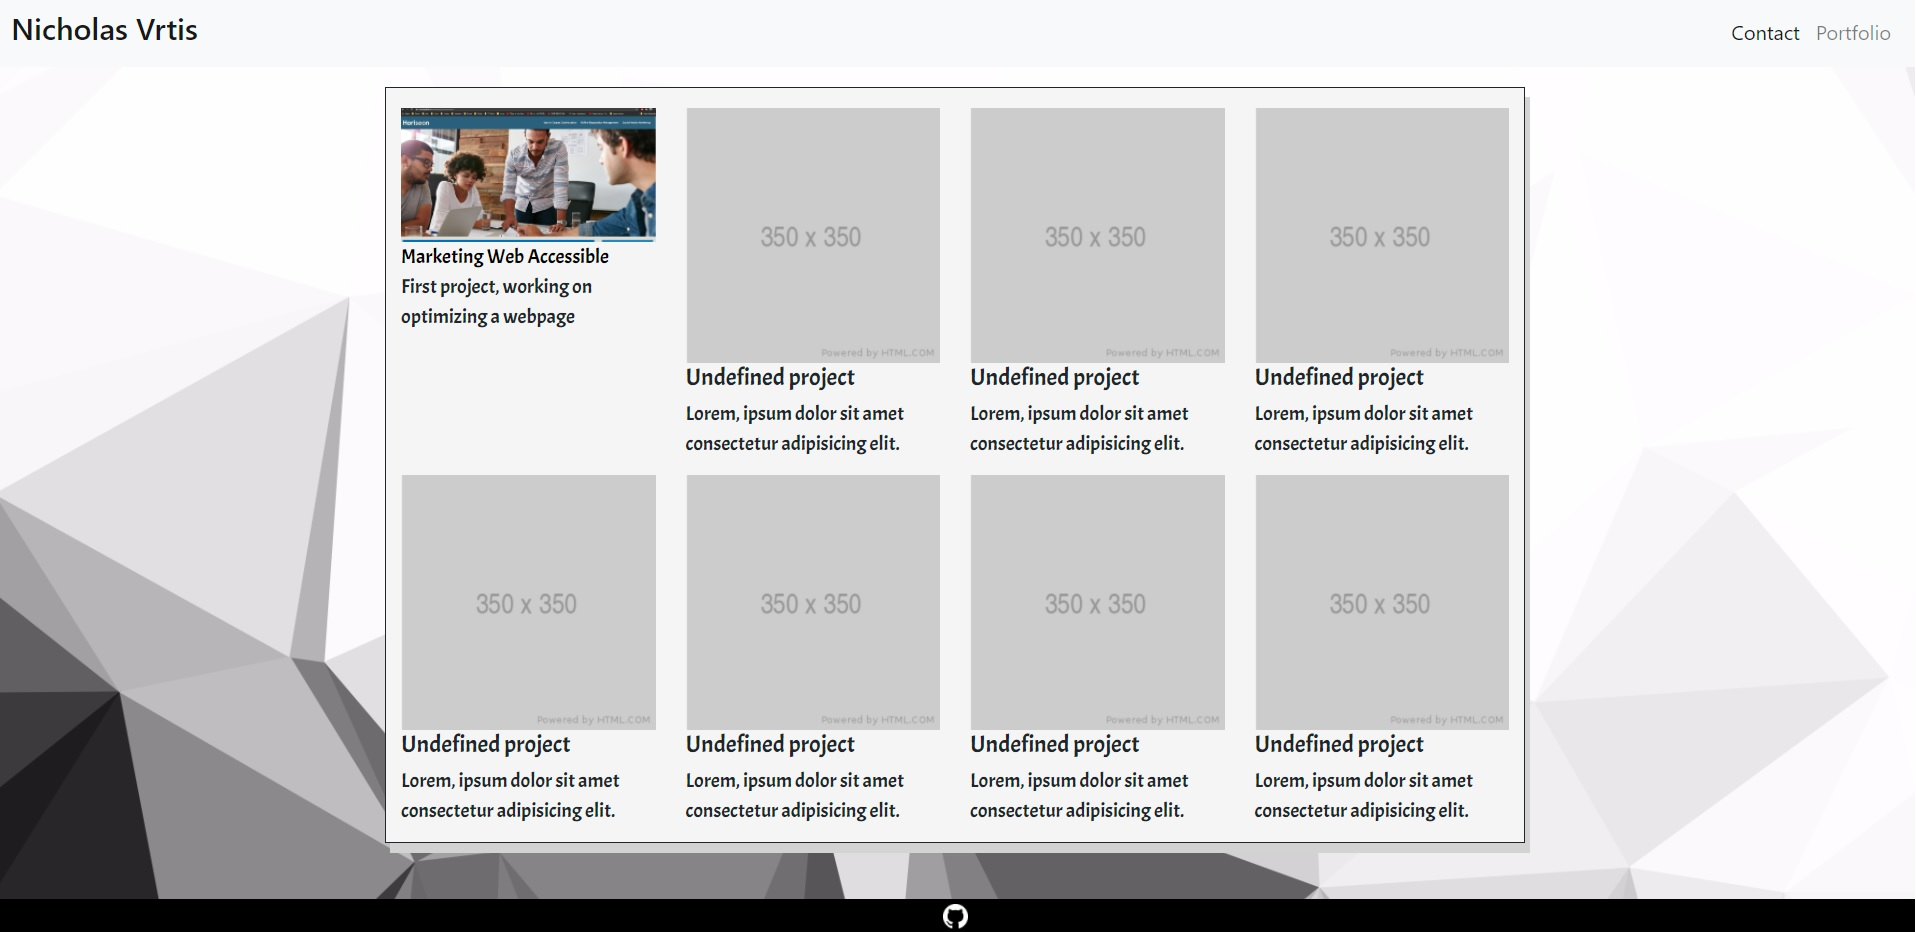
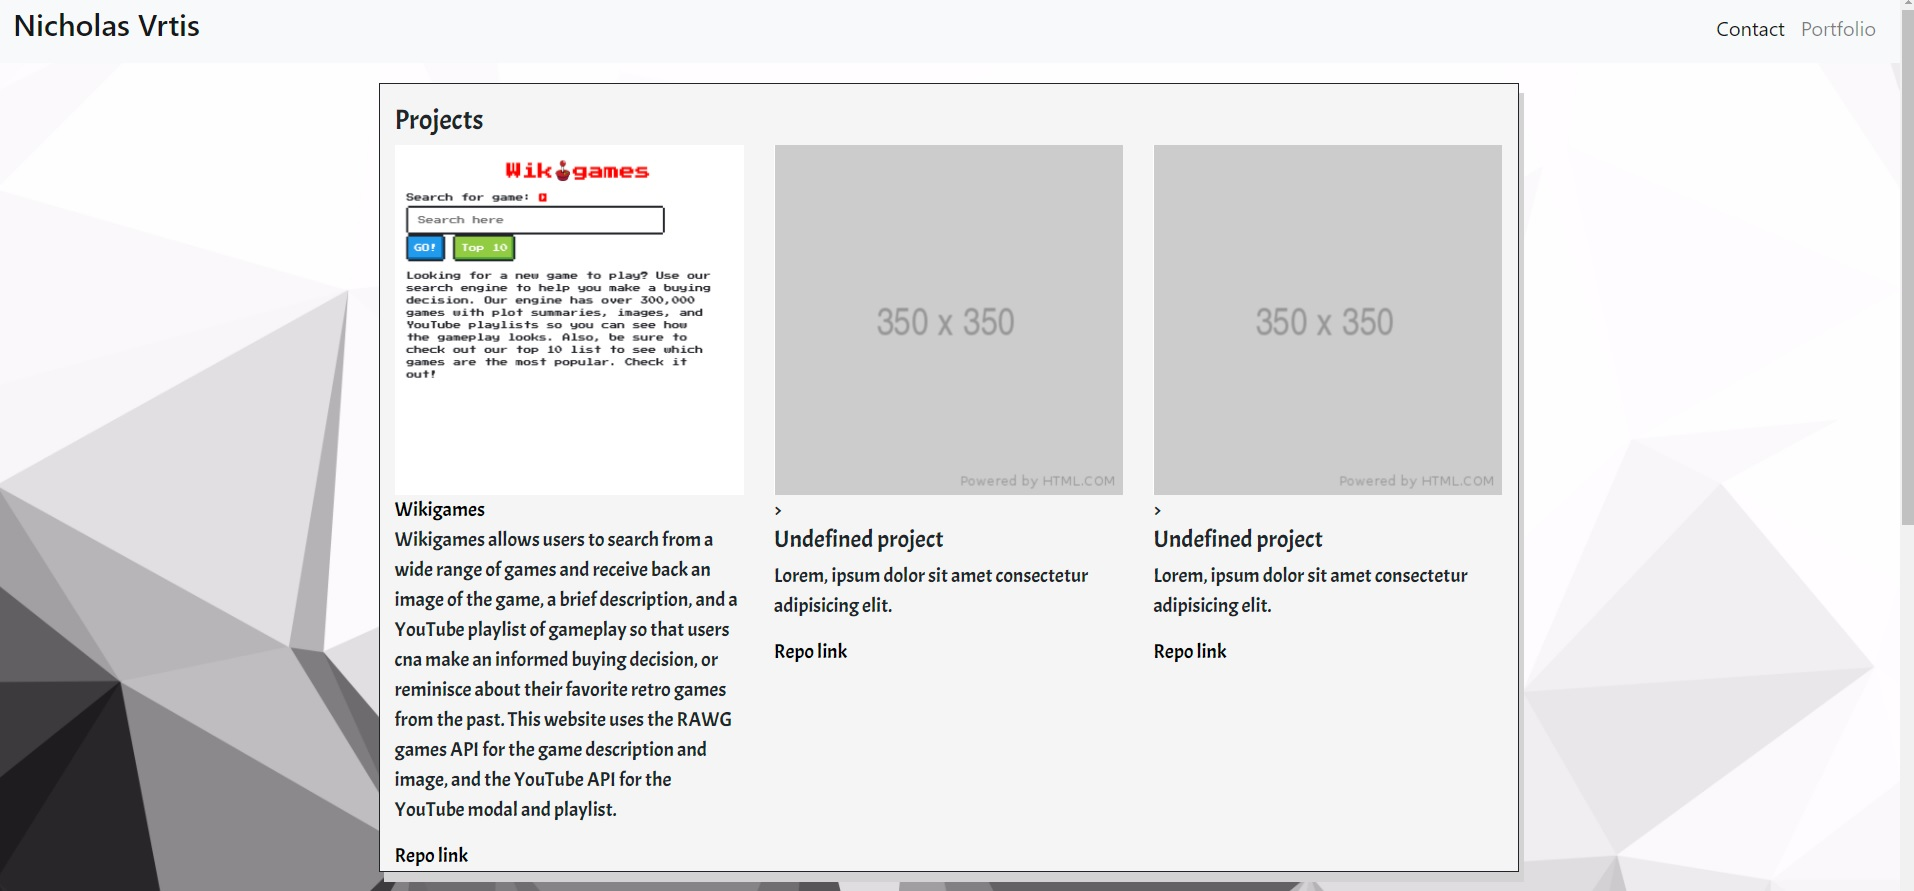
portfolio 2.0

diff --git a/index.html b/index.html
@@ -48,7 +48,7 @@
           Had previous background in medicine before perusing a career in Software Development/Salesforce. 
         </p>
           <p>
-             <a href="./Assets/Profile.pdf" class="button" download><i class="fa fa-download"></i>Download CV (work in progress)</a>
+             <a href="./Assets/Profile.pdf" class="button" download><i class="fa fa-download"></i>Download CV</a>
           </p>
        </div>
       </div>

diff --git a/README.md b/README.md
@@ -1,133 +1,36 @@
-# Responsiv Portfolio
-   
+
 ![Responsiv Portfolio](./Assets/readmeImg.jpg)
 
 [Link to Webpage](https://nvrtis.github.io/)
 
+# My Portfolio
 
-This project was creating a responsiv website using Bootstrap.
-Its is built using the grid style layout, where index and contact pages are using columns 8/12 grids for astethics choice and portfolio is using all columns 12/12 grids.
+On the main page you will find a short summary of who i am, what i have done so far in coding.
 
-## Building the sites
+If you are interessted in learning more about me and my collaborative projects you will find it at this webpage.
 
-![Navbar](./Assets/navbar.jpg)
+This website will be updated when new projects are completed or my skills as a coder has reached a new milestone and i can implement further applications.
 
-The Navbar is copied from Components from bootstrap and removed the search form one of the links included. After renaming the links, i added the class "ml-auto" to {ul class="navbar-nav ml-auto"} on line 24 to move the links to the right side of the nav bar.
-
-There are 3 pages on the site, which are connected through the Nav bar. Index.html linked on the h1 header (Nicholas Vrtis), and; Contact and Portfolio have designated links on the right side. Javascript is only running the hamburger menu on this page.
-
-![Hamburger menu](./Assets/hamburger.jpg)
-
-The Contact and Portfolio link will transform into a hamburger menu when the screen size  992px wide, which makes it optimal when using smaller screens. I have also added hover pseudo classes on all the links on the nav bar.
-
-On the Index.html page, there is only one container with some placeholder image and text. The image is floating on the left side on desktop pc, but with media queries will stop floating on smaller screens, so that the text will appear underneath the image.
-The footer is fixed on the bottom to have it out of the way, with some placeholder image for github and inverse filter (filter: invert(1);). With media queries the the container will add a margin on the bottom of the container so that the footer doesnt cover the text on smaller screens.
 
 ![Contact](./Assets/contact.jpg)
-
-Contact.html is where we have the forms for sending an email, but for now there is no backend script, so the emails/messages are not sendt anywhere. Also added contact links on the bottom, which will have 50% opacity when hovering over. The phone image is floating on larger screens, but on smaller screens the phone image will have its floating characteristics removed 
+## Contact information
+Here you find my contact information, The email send button is a work in progress. Further down the screen you will see a link to my Facebook, Linkedin and cellphone number.
 
 ![Portfolio](./Assets/portfolio.jpg)
-
-Portfolio.html are set up in columns size of 3, so we can have 4 images next to each other. Here i have linked the image and the "headline" to the first project, and created pseudo class so that it show when hovering over the image or text, with opacity or increase in font size and underline. This is where i will upload all projects and link them further on, but for now there is alot of placeholders.
-
-Also i avoided having everything in portfolio in a subcontainer because of the lack of real estate i got from the screen was not optimal.  
-
-## Styling the sites
-
-I have already mentioned the media queries and floating of the images. Other than padding and margins to make everything fit well together in both large and small screens. I have also included a font from google fonts and a background image aswell.
-All images also have an Alt pluss class image-float to make them responsive.
+## Portfolio
+Here you will find a list over the projects and assignments i have had so far. The larger project are pinned first, while the smaller assignments are at the bottom of the page
 
 
+### Wikigames
+Wikigames is a collaborative project with [Zac Jayes](https://github.com/ZJayes), [Mohammad Ali Karimi](https://github.com/karimi65), [Matt Kulling](https://github.com/mokulling) and me.
 
+Wikigames allows users to search from a wide range of games and receive back an image of the game, a brief description, and a YouTube playlist of gameplay so that users can make an informed buying decision, or reminisce about their favorite retro games from the past. This website uses the RAWG games API for the game description and image, and the YouTube API for the YouTube modal and playlist.
 
+[Link to Wikigames](https://mokulling.github.io/wikigames/)
 
+You will also see assignments that i have done earlier, which shows smaller solo project and assignment that i have done.
 
 
 
-<!-- # Unit 02 CSS and Bootstrap Homework: Responsive Portfolio
+*This Website framework is using Bootstrap.*
 
-Responsive design ensures that web applications render well on a variety of devices and window or screen sizes. As a developer, you will likely be asked to create a mobile-first application or add responsive design to an existing application.  -->
-
-
-<!-- ## Directions
-
-First, you will use the Bootstrap CSS Framework to create a mobile responsive portfolio. How do you deliver this? Here are some guidelines:
-
-* Create the following files files: `index.html`, `portfolio.html` and `contact.html`. -->
-
-<!-- * Using Bootstrap, develop your portfolio site with the following items:
-
-   * A navbar
-
-   * A responsive layout
-
-   * Responsive images -->
-
-<!-- * The Bootstrap portfolio should minimize the use of media queries. -->
-<!-- 
-* Screenshots are provided as a reference in the `Assets/Images` folder. Your app does not need to be _exactly_ like the images. Use Bootstrap to create a similar, responsive layout. -->
-
-<!-- ### Hints
-
-* Use Bootstrap's grid system (containers, rows, and columns).
-
-* On an `xs` screen, content should take up the entire screen. On `sm` and larger screens, you should have some margins on the left and right sides of the screen. Check out various sites on your mobile device vs. your computer to see examples of these differences. -->
-
-<!-- * Use an HTML validation service to ensure that each page has valid HTML. -->
-
-<!-- ### Minimum Requirements -->
-
-<!-- * Functional, deployed application -->
-
-<!-- * GitHub repository with README describing the project -->
-
-<!-- * Navbar must be consistent on each page. -->
-
-<!-- * Navbar on each page must contain links to Home/About, Contact, and Portfolio pages. -->
-
-<!-- * All links must work. -->
-
-<!-- * Must use semantic html. -->
-
-<!-- * Each page must have valid and correct HTML. (use a validation service) -->
-
-<!-- * Must contain your personalized information. (bio, name, images, links to social media, etc.) -->
-
-<!-- * Must properly utilize Bootstrap components and grid system. -->
-
-<!-- ### Bonus -->
-
-<!-- * Using Bootstrap, make a sticky footer and use sub-rows and sub-columns on your portfolio site (**Hint:** Check out the Bootstrap documentation). -->
-
-<!-- ## Commit Early and Often -->
-
-<!-- One of the most important skills to master as a web developer is version control. Building the habit of committing via Git is important for two reasons: -->
-
-<!-- * Your commit history is a signal to employers that you are actively working on projects and learning new skills. -->
-
-<!-- * Your commit history allows you to revert your codebase in the event that you need to return to a previous state. -->
-
-<!-- Follow these guidelines for committing: -->
-
-<!-- * Make single-purpose commits for related changes to ensure a clean, manageable history. If you are fixing two issues, make two commits. -->
-
-<!-- * Write descriptive, meaningful commit messages so that you and anyone else looking at your repository can easily understand its history. -->
-
-<!-- * Don't commit half-done work, for the sake of your collaborators (and your future self!). -->
-
-<!-- * Test your application before you commit to ensure functionality at every step in the development process. -->
-
-<!-- We would like you to have well over 200 commits by graduation, so commit early and often! -->
-
-<!-- ## Submission on BCS
-
-You are required to submit the following:
-
-* The URLs of the deployed applications
-
-* The URLs of the GitHub repositories
-
-<!-- - - - -->
-
-<!-- © 2019 Trilogy Education Services, a 2U, Inc. brand. All Rights Reserved. -->
